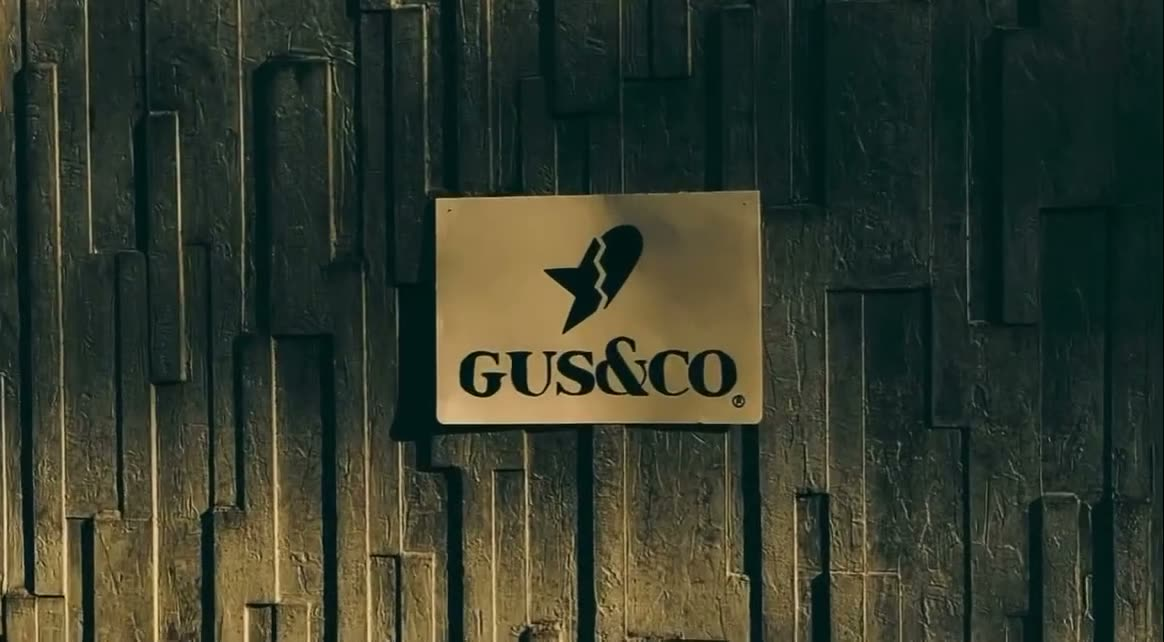
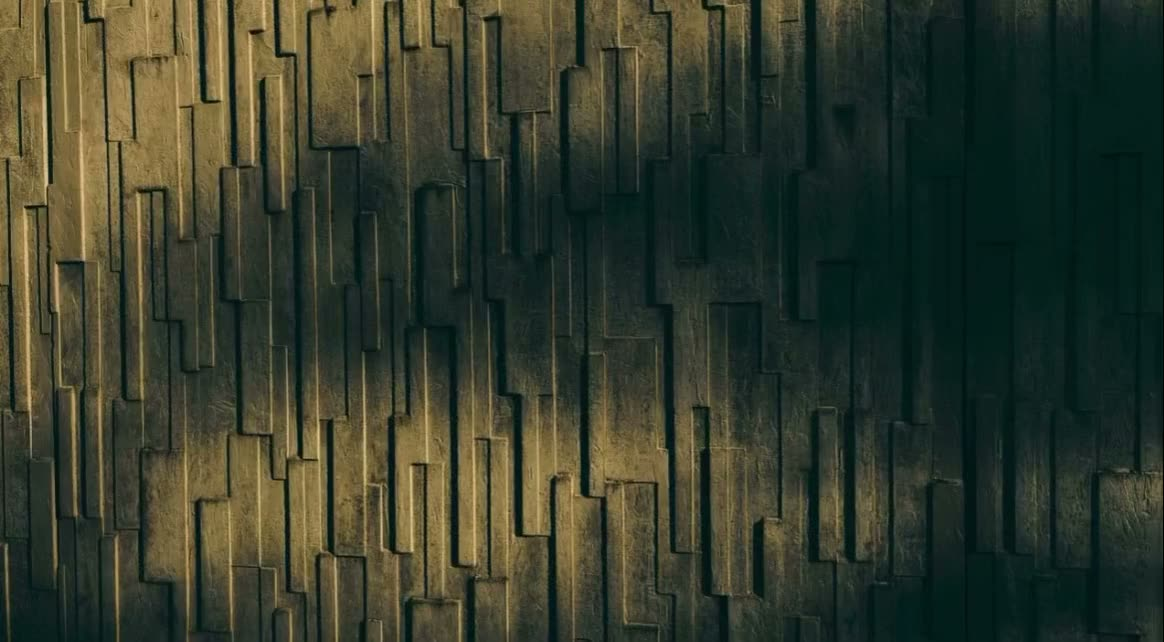
feat: use the poster campaign film as the home page hero (test)
Replaces the train film with campaign film A; its poster is now the
first frame so nothing jumps when playback starts. The train film stays
in assets (still used by the built-in stand-by screen).

diff --git a/index.html b/index.html
@@ -77,7 +77,7 @@
 
     <main>
         <section class="hero" aria-label="Film de présentation Gus&amp;Co">
-            <video class="hero-video" src="assets/video/hero.mp4" poster="assets/video/hero-poster.jpg"
+            <video class="hero-video" src="assets/video/campaign-a.mp4" poster="assets/video/campaign-a-poster.jpg"
                    autoplay muted loop playsinline preload="auto" aria-hidden="true"></video>
             <div class="hero-shade"></div>
             <div class="hero-bottom">
